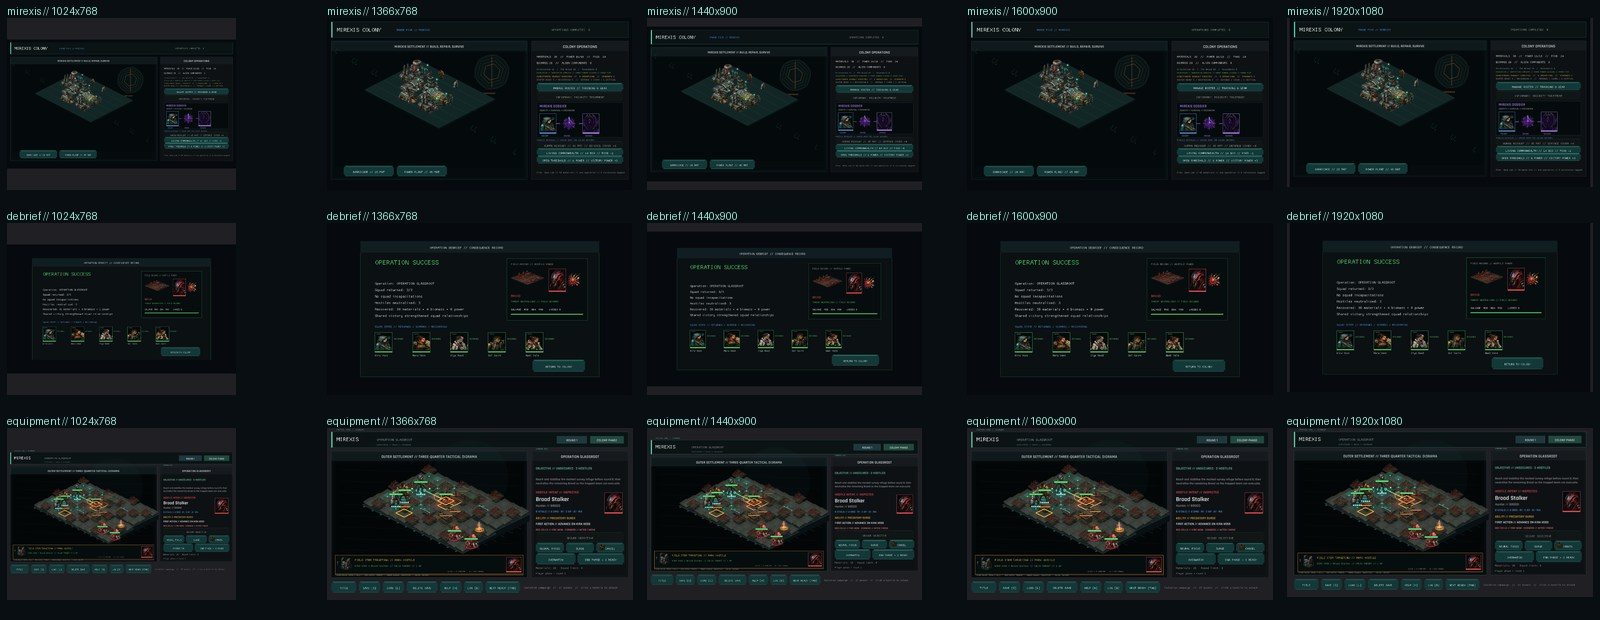
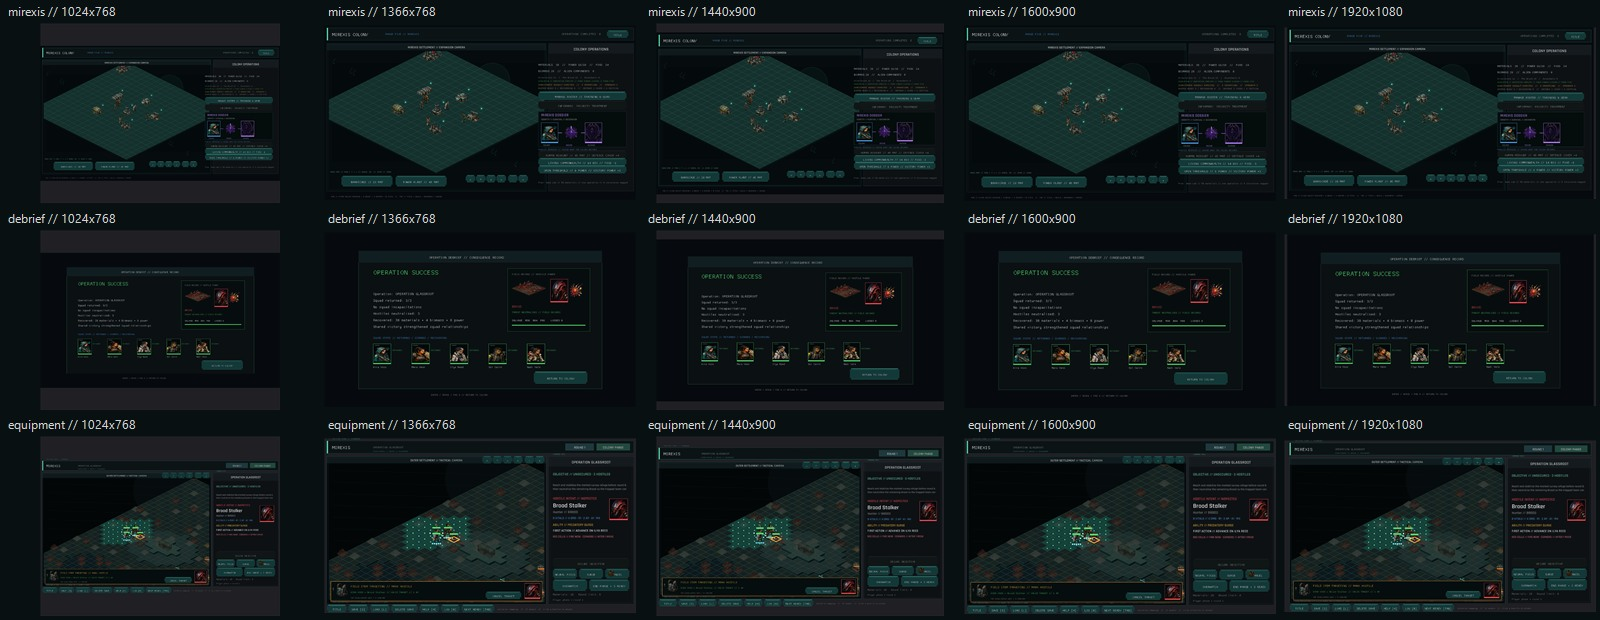
The frontier holds at every horizon (responsive verification refresh)
The tracked responsive summaries predated the final camera reset, expanded battlefield, and visible recovery controls, so they no longer proved the exact release candidate.

Regenerate the scale evidence from the current release harness across the supported desktop sizes, inspect the resulting colony, tactical, debrief, and targeting layouts, and update the typography and graphics audits to reference the root-level evidence that actually ships with the verification package.

diff --git a/docs/verification/UI_GRAPHICS_COMPARISON_AUDIT.md b/docs/verification/UI_GRAPHICS_COMPARISON_AUDIT.md
@@ -11,8 +11,8 @@ Written translation: `docs/UI_GRAPHICS_VISUAL_SPEC.md`
 - Final implementation captures: 85 canonical PNGs directly in `docs/verification`, including controller focus, mouse hover, and explicit damaged and repaired settlement states.
 - Immutable file inventory: `FINAL_CAPTURE_INVENTORY.md` records every scene filename, byte count, and SHA-256 digest.
 - Final contact sheets: eight temporary, manifest-ordered sheets generated from the canonical root captures and inspected during the 2026-08-12 audit.
-- Scale checks: 1024 x 768, 1366 x 768, 1440 x 900, 1600 x 900, and 1920 x 1080 capture sets, summarized by `responsive_supported_sizes_contact.jpg`.
-- Final strategy-control scale check: `responsive_final_controls_1024x768` verifies colony, roster, gene lab, briefing, and debrief cues at the smallest supported desktop size.
+- Scale checks: current-release captures at 1024 x 768, 1366 x 768, 1440 x 900, 1600 x 900, and 1920 x 1080, summarized by `responsive_supported_sizes_contact.jpg` and `responsive_final_critical_scenes.jpg`; both tracked sheets were regenerated after the final camera and touch-control changes.
+- Final minimum-size checks: the 1024 x 768 Mirexis decision, debrief, and equipment/targeting panels in `responsive_final_critical_scenes.jpg` remain fully operable and readable without clipping.
 - Grayscale checks: `docs/verification/grayscale_audit` and the refreshed 14-scene `grayscale_audit_final` set.
 
 ## Baseline-to-final findings
@@ -37,7 +37,7 @@ Written translation: `docs/UI_GRAPHICS_VISUAL_SPEC.md`
 - Placeholder art: none observed in production-required surfaces.
 - Unclear terrain: projected diamond edges, stepped top surfaces, exposed cliff faces, cover edges, and pattern-coded overlays remain distinguishable without debug height labels.
 - Inconsistent controls: shared button states and stable back/confirm/footer cues are present; Web builds add controller navigation through the shared runtime bridge.
-- Input discoverability: title, strategy, briefing, tactical, modal, and debrief surfaces now expose accurate keyboard/controller cues; the final strategy cues were separately checked at 1024 x 768.
+- Input discoverability: title, strategy, briefing, tactical, modal, and debrief surfaces expose visible touch/click controls alongside optional shortcuts; the final strategy and recovery controls were separately checked at 1024 x 768.
 - Browser runtime: a fresh published WebGL load is warning/error-free; title-to-colony-to-briefing-to-deployment-to-tactical navigation, visible camera-button pan/zoom, transformed colony placement, and transformed tactical movement were exercised interactively.
 
 ## Capture verdict

diff --git a/docs/verification/UI_CONTRAST_TYPOGRAPHY_AUDIT.md b/docs/verification/UI_CONTRAST_TYPOGRAPHY_AUDIT.md
@@ -1,7 +1,7 @@
 # Mirexis UI Contrast and Typography Audit
 
-Audit date: 2026-08-11  
-Evidence: final 1280 x 720 capture set plus `responsive_final_typography_1024x768` and `responsive_final_controls_1024x768`
+Audit date: 2026-08-12
+Evidence: final 1280 x 720 capture set plus the tracked `responsive_supported_sizes_contact.jpg` and `responsive_final_critical_scenes.jpg` scale summaries
 
 ## Contrast samples
 
@@ -28,7 +28,7 @@ All sampled functional text exceeds 4.5:1. State is never communicated by colour
 - Body and operational data: 10-15 logical pixels.
 - Captions: 9.5 logical pixels minimum and limited to redundant height/ending metadata.
 
-The final readability pass raised event-kind labels, cover values, armour markers, completed research badges, and height labels. The densest battle log, tactical HUD, cover overlay, research state, controller-focused title, and strategy-screen input cues were recaptured at 1024 x 768. Uniform letterboxing is intentional; no label, footer cue, or focus ring clips at the smallest supported desktop size.
+The final readability pass raised event-kind labels, cover values, armour markers, completed research badges, and height labels. The root capture suite covers the densest battle log, tactical HUD, cover overlay, research state, controller-focused title, and strategy-screen input cues. A current-release 1024 x 768 pass additionally verifies the Mirexis decision, debrief, and equipment/targeting panels. Uniform letterboxing is intentional; no label, footer cue, recovery control, or focus ring clips at the smallest supported desktop size.
 
 ## Verdict
 
